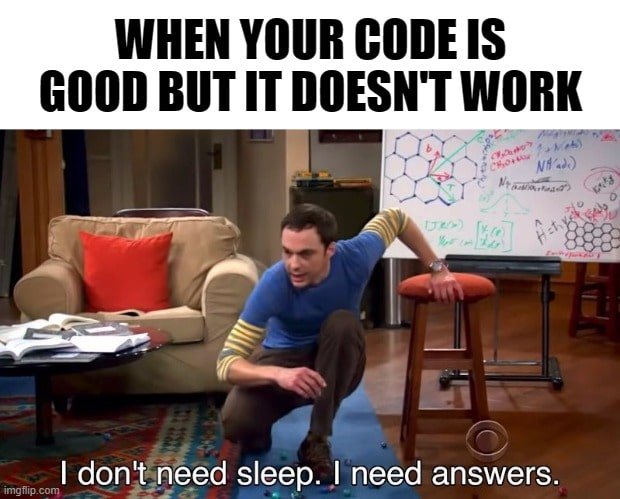
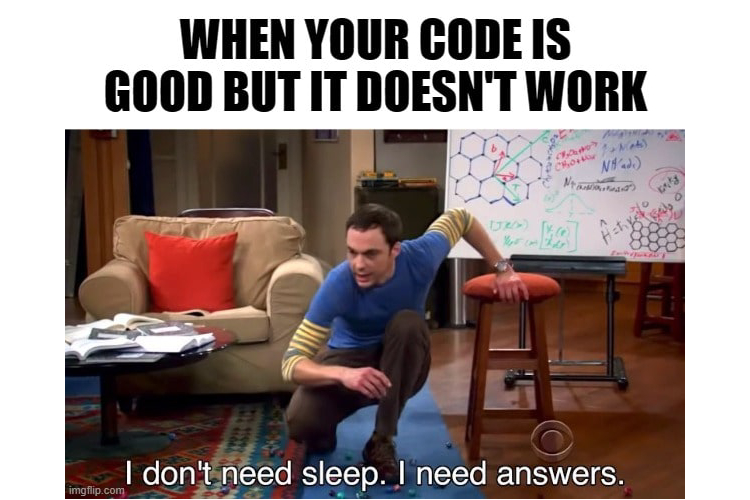
'feat: add adaptive code for memes (Tue, Sep 10, 2024 01:28:03 AM)

diff --git a/index.html b/index.html
@@ -11,11 +11,13 @@
         <div class="container">
             <h2 class="slider-title">Meme Slider</h2>
             <div class="main">
-                <div class="images">
-                    <img class="mem-img" src="/cssMemeSlider/img/Code-doesnt-work.jpg" alt="mem">
-                    <img class="mem-img" src="/cssMemeSlider/img/Intro.jpg" alt="mem">
-                    <img class="mem-img" src="/cssMemeSlider/img/Programming-Memes-Programmer-while-sleeping.jpg" alt="mem">
-                    <img class="mem-img" src="/cssMemeSlider/img/Railway.jpg" alt="mem">
+                <div class="slider">
+                    <div class="images">
+                        <img class="mem-img" src="/cssMemeSlider/img/Code-doesnt-work.jpg" alt="mem">
+                        <img class="mem-img" src="/cssMemeSlider/img/Intro.jpg" alt="mem">
+                        <img class="mem-img" src="/cssMemeSlider/img/Programming-Memes-Programmer-while-sleeping.jpg" alt="mem">
+                        <img class="mem-img" src="/cssMemeSlider/img/Railway.jpg" alt="mem">
+                    </div>
                 </div>
                 <div class="text">When your code doesn't work</div>
                 <div class="buttons">

diff --git a/style.css b/style.css
@@ -56,21 +56,26 @@ img {
 }
 
 .main {
-    max-width: 35rem;
     margin: 0 auto;
+    max-width: 46rem;
     display: grid;
     row-gap: 3%;
-    grid-template-areas: "i i i"
+    grid-template-areas: "s s s"
                          "t . b"
                          ". . ."
 }
 
-.images { grid-area: i; }
+.slider {
+    max-width: 46rem;
+    overflow: hidden;
+}
+
+.slider { grid-area: s; }
 .text { grid-area: t; }
 .buttons {
     grid-area: b;
     display: flex;
-    justify-content: flex-end;
+    justify-content: flex-start;
     gap: 0.8rem;
 }
 
@@ -106,7 +111,7 @@ img {
 
 .images {
     margin: 0 auto;
-    max-width: 50rem;
+    
     overflow: hidden;
     display: flex;
     align-items: center;
@@ -116,7 +121,7 @@ img {
 @media screen and (max-width: 500px) {
     .main {
         display: grid;
-        grid-template-areas: "i i i"
+        grid-template-areas: "s s s"
                              "b b b"
                              "t t t";
     }

diff --git a/main.js b/main.js
@@ -1,0 +1,19 @@
+const sliderImages = document.querySelectorAll('.mem-img');
+const sliderLine = document.querySelector('.images');
+const sliderDots = document.querySelectorAll('.button');
+
+let sliderCount = 0;
+let sliderWidth;
+
+window.addEventListener('resize', showSlide);
+
+function showSlide (){
+    sliderWidth = document.querySelector('.main').offsetWidth;
+    sliderLine.style.width = sliderWidth * sliderImages.length + 'px';
+    sliderImages.forEach(item => item.style.width = sliderWidth + 'px');
+}
+
+showSlide();
+
+
+
